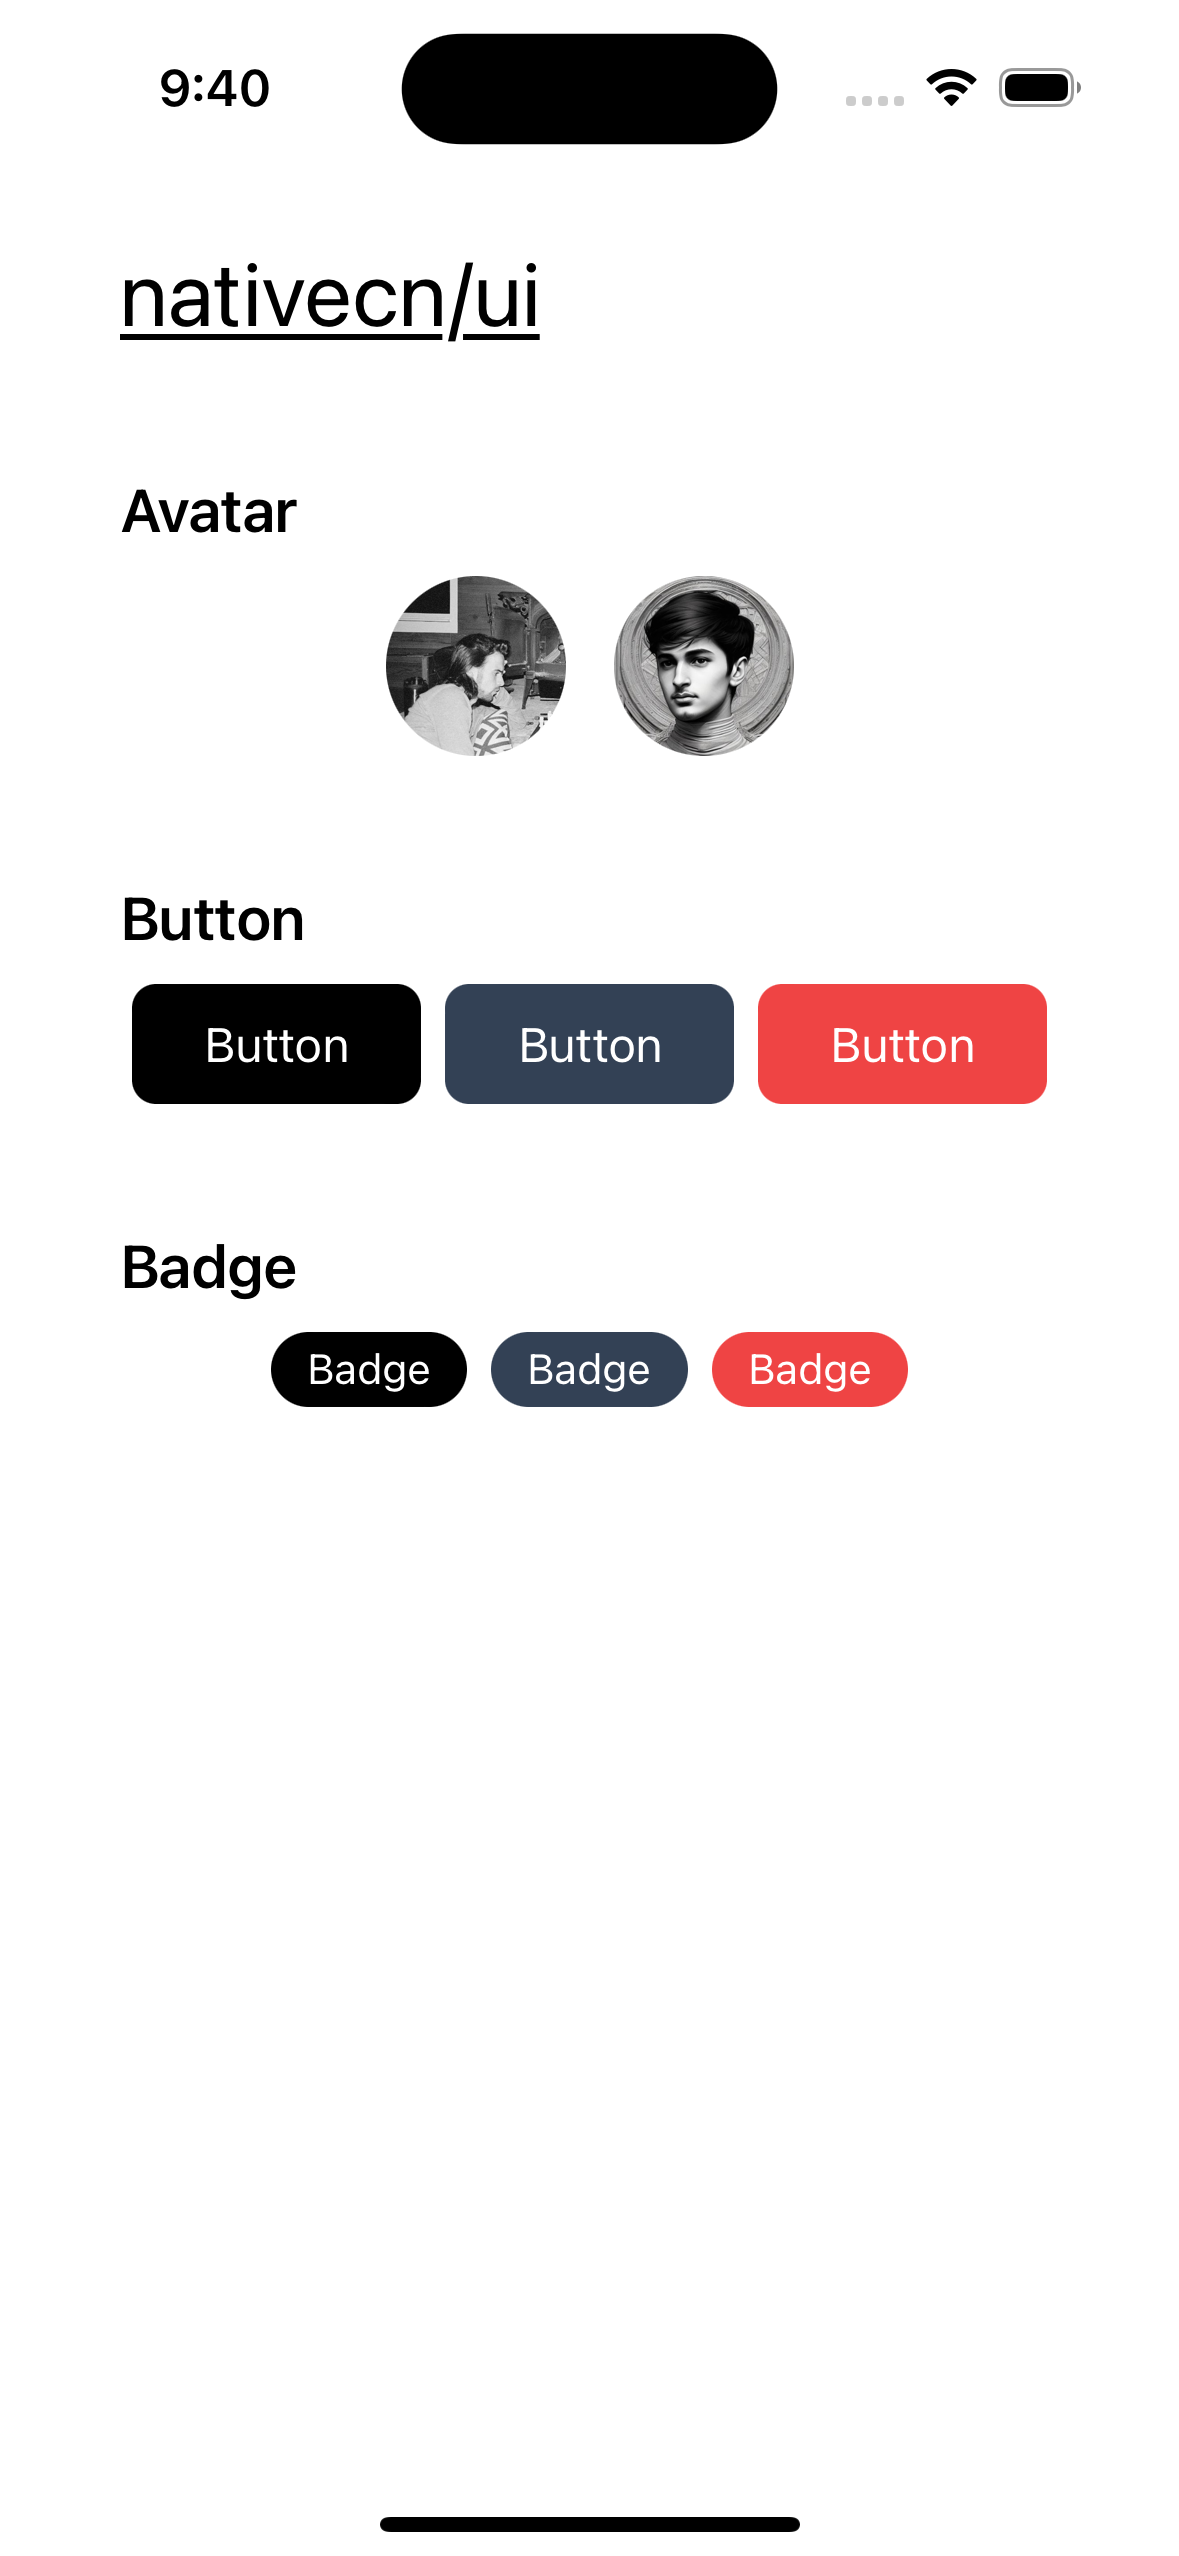
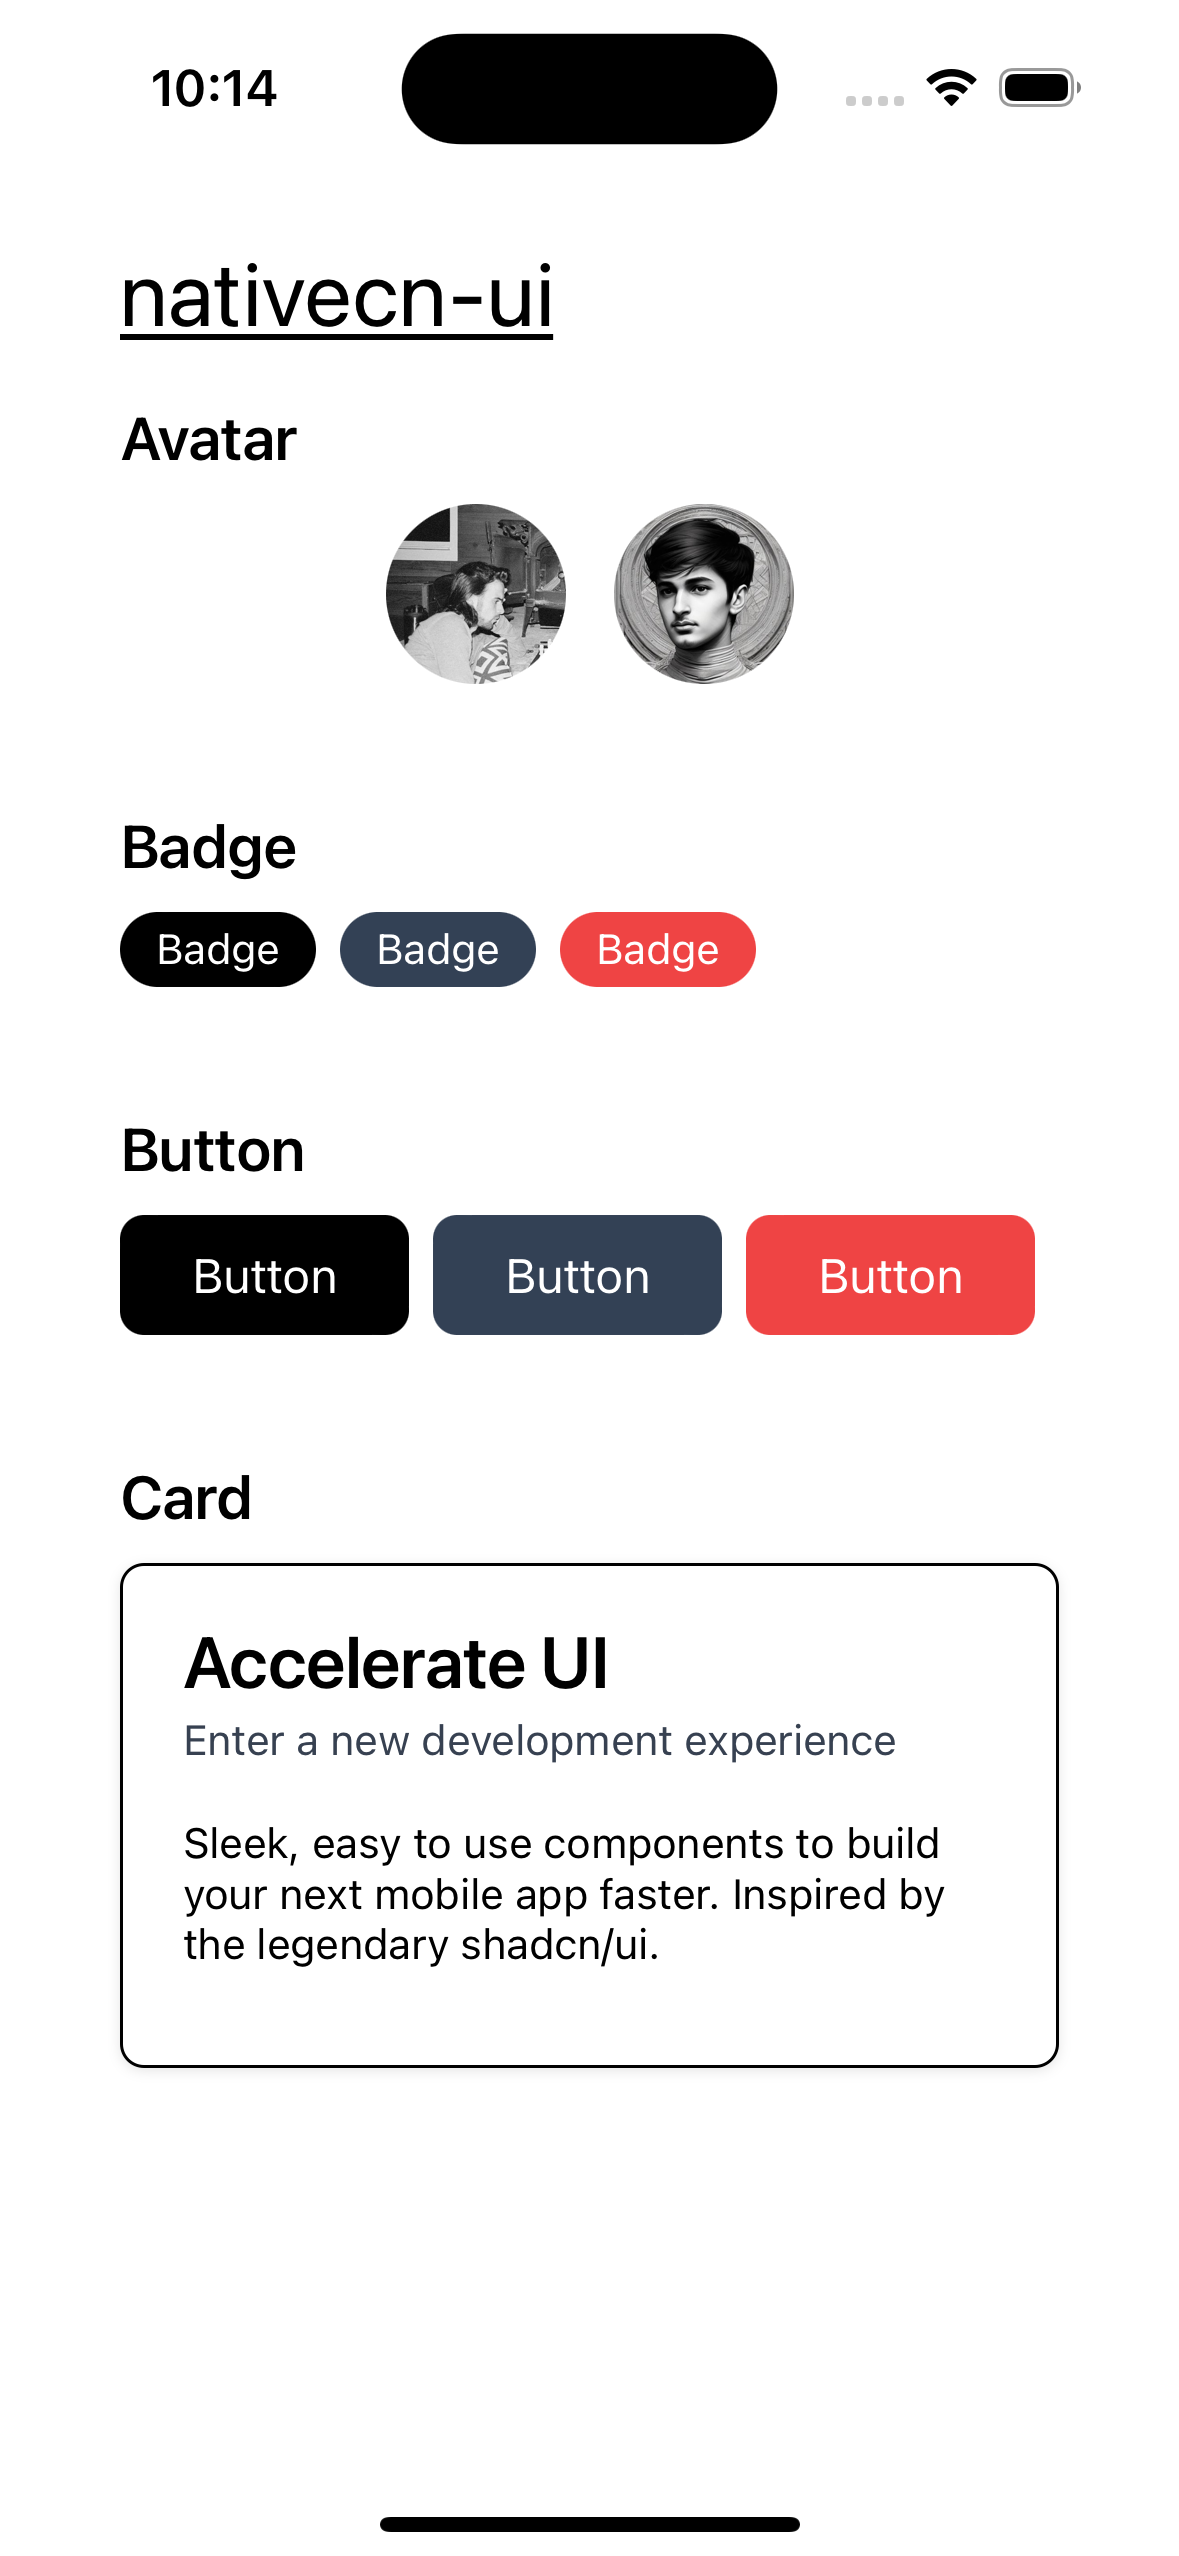
feat: add Card

diff --git a/App.tsx b/App.tsx
@@ -4,60 +4,76 @@ import { styled } from 'nativewind';
 import Avatar from './components/Avatar';
 import Button from './components/Button';
 import Badge from './components/Badge';
+import Card from './components/Card';
 
 const StyledView = styled(View);
 
 export default function App() {
   return (
-    <StyledView className="flex-1 py-20 px-10 gap-y-8 dark:bg-black">
-      <Text className="text-3xl underline dark:text-white">nativecn/ui</Text>
+    <StyledView className="flex-1 py-20 px-10 dark:bg-black">
+      <Text className="mb-2 text-3xl underline dark:text-white">
+        nativecn-ui
+      </Text>
 
-      <View className="flex gap-2">
-        <Text className="font-semibold text-xl dark:text-white">Avatar</Text>
-        <StyledView className="flex justify-center flex-row space-x-4">
+      <View className="flex gap-y-8">
+        <View className="flex gap-2">
+          <Text className="font-semibold text-xl dark:text-white">Avatar</Text>
+          <StyledView className="flex justify-center flex-row space-x-4">
+            <View>
+              <Avatar
+                src="https://pbs.twimg.com/profile_images/1635394124579999745/oJs7VJ3J_400x400.jpg"
+                fallback="CG"
+              />
+            </View>
+            <View>
+              <Avatar
+                src="https://pbs.twimg.com/profile_images/1603610343905058816/PsPEWMOJ_400x400.jpg"
+                fallback="SS"
+              />
+            </View>
+          </StyledView>
+        </View>
+
+        <View className="flex gap-2">
+          <Text className="font-semibold text-xl dark:text-white">Badge</Text>
+          <StyledView className="flex flex-row space-x-2">
+            <View>
+              <Badge label="Badge" />
+            </View>
+            <View>
+              <Badge label="Badge" variant="ghost" />
+            </View>
+            <View>
+              <Badge label="Badge" variant="destructive" />
+            </View>
+          </StyledView>
+        </View>
+
+        <View className="flex gap-2">
+          <Text className="font-semibold text-xl dark:text-white">Button</Text>
+          <StyledView className="flex flex-row space-x-2">
+            <View>
+              <Button label="Button" />
+            </View>
+            <View>
+              <Button label="Button" variant="ghost" />
+            </View>
+            <View>
+              <Button label="Button" variant="destructive" />
+            </View>
+          </StyledView>
+        </View>
+
+        <View className="flex gap-2">
+          <Text className="font-semibold text-xl dark:text-white">Card</Text>
           <View>
-            <Avatar
-              src="https://pbs.twimg.com/profile_images/1635394124579999745/oJs7VJ3J_400x400.jpg"
-              fallback="CG"
+            <Card
+              title="Accelerate UI"
+              description="Enter a new development experience"
+              content="Sleek, easy to use components to build your next mobile app faster. Inspired by the legendary shadcn/ui."
             />
           </View>
-          <View>
-            <Avatar
-              src="https://pbs.twimg.com/profile_images/1603610343905058816/PsPEWMOJ_400x400.jpg"
-              fallback="SS"
-            />
-          </View>
-        </StyledView>
-      </View>
-
-      <View className="flex gap-2">
-        <Text className="font-semibold text-xl dark:text-white">Button</Text>
-        <StyledView className="flex justify-center flex-row space-x-2">
-          <View>
-            <Button label="Button" />
-          </View>
-          <View>
-            <Button label="Button" variant="ghost" />
-          </View>
-          <View>
-            <Button label="Button" variant="destructive" />
-          </View>
-        </StyledView>
-      </View>
-
-      <View className="flex gap-2">
-        <Text className="font-semibold text-xl dark:text-white">Badge</Text>
-        <StyledView className="flex flex-row justify-center space-x-2">
-          <View>
-            <Badge label="Badge" />
-          </View>
-          <View>
-            <Badge label="Badge" variant="ghost" />
-          </View>
-          <View>
-            <Badge label="Badge" variant="destructive" />
-          </View>
-        </StyledView>
+        </View>
       </View>
     </StyledView>
   );

diff --git a/components/Card.tsx b/components/Card.tsx
@@ -1,0 +1,57 @@
+import { Text, View, useColorScheme } from 'react-native';
+
+import { Variant, VariantStyles } from '../lib/types';
+
+interface CardProps {
+  content?: string;
+  description?: string;
+  footer?: string;
+  title?: string;
+  variant?: Variant;
+}
+export default function Card({
+  content,
+  description,
+  footer,
+  title,
+  variant,
+}: CardProps) {
+  const colorScheme = useColorScheme();
+  const variantStyles: VariantStyles = {
+    default: colorScheme === 'light' ? 'bg-white' : 'bg-black',
+  };
+
+  return (
+    <View
+      className={`
+      px-5 py-4 rounded-lg border shadow-sm dark:border-gray-700
+      ${variant ? variantStyles[variant] : variantStyles.default}
+    `}
+    >
+      <View>
+        {title && (
+          <Text className="text-2xl font-semibold tracking-tight text-black dark:text-white">
+            {title}
+          </Text>
+        )}
+        {description && (
+          <Text className="text-sm text-gray-700 dark:text-gray-400">
+            {description}
+          </Text>
+        )}
+      </View>
+
+      {content && (
+        <View className="py-4">
+          <Text className="text-black dark:text-white">{content}</Text>
+        </View>
+      )}
+
+      {footer && (
+        <Text className="text-sm text-gray-700 dark:text-gray-400">
+          {footer}
+        </Text>
+      )}
+    </View>
+  );
+}

diff --git a/lib/types.ts b/lib/types.ts
@@ -1,5 +1,5 @@
 export type Variant = 'default' | 'ghost' | 'destructive';
 
 export type VariantStyles = {
-  [K in Variant]: string;
+  [K in Variant]?: string;
 };

diff --git a/README.md b/README.md
@@ -19,7 +19,9 @@ Sleek, ready-to-use components for your next project. No package install, no bs.
 - [x] Avatar
 - [x] Badge
 - [x] Button
-- [ ] Card (WIP)
+- [x] Card
+- [ ] Calendar (WIP)
+- [ ] Checkbox (WIP)
 - [ ] Input (WIP)
 - [ ] Tabs (WIP)
 
